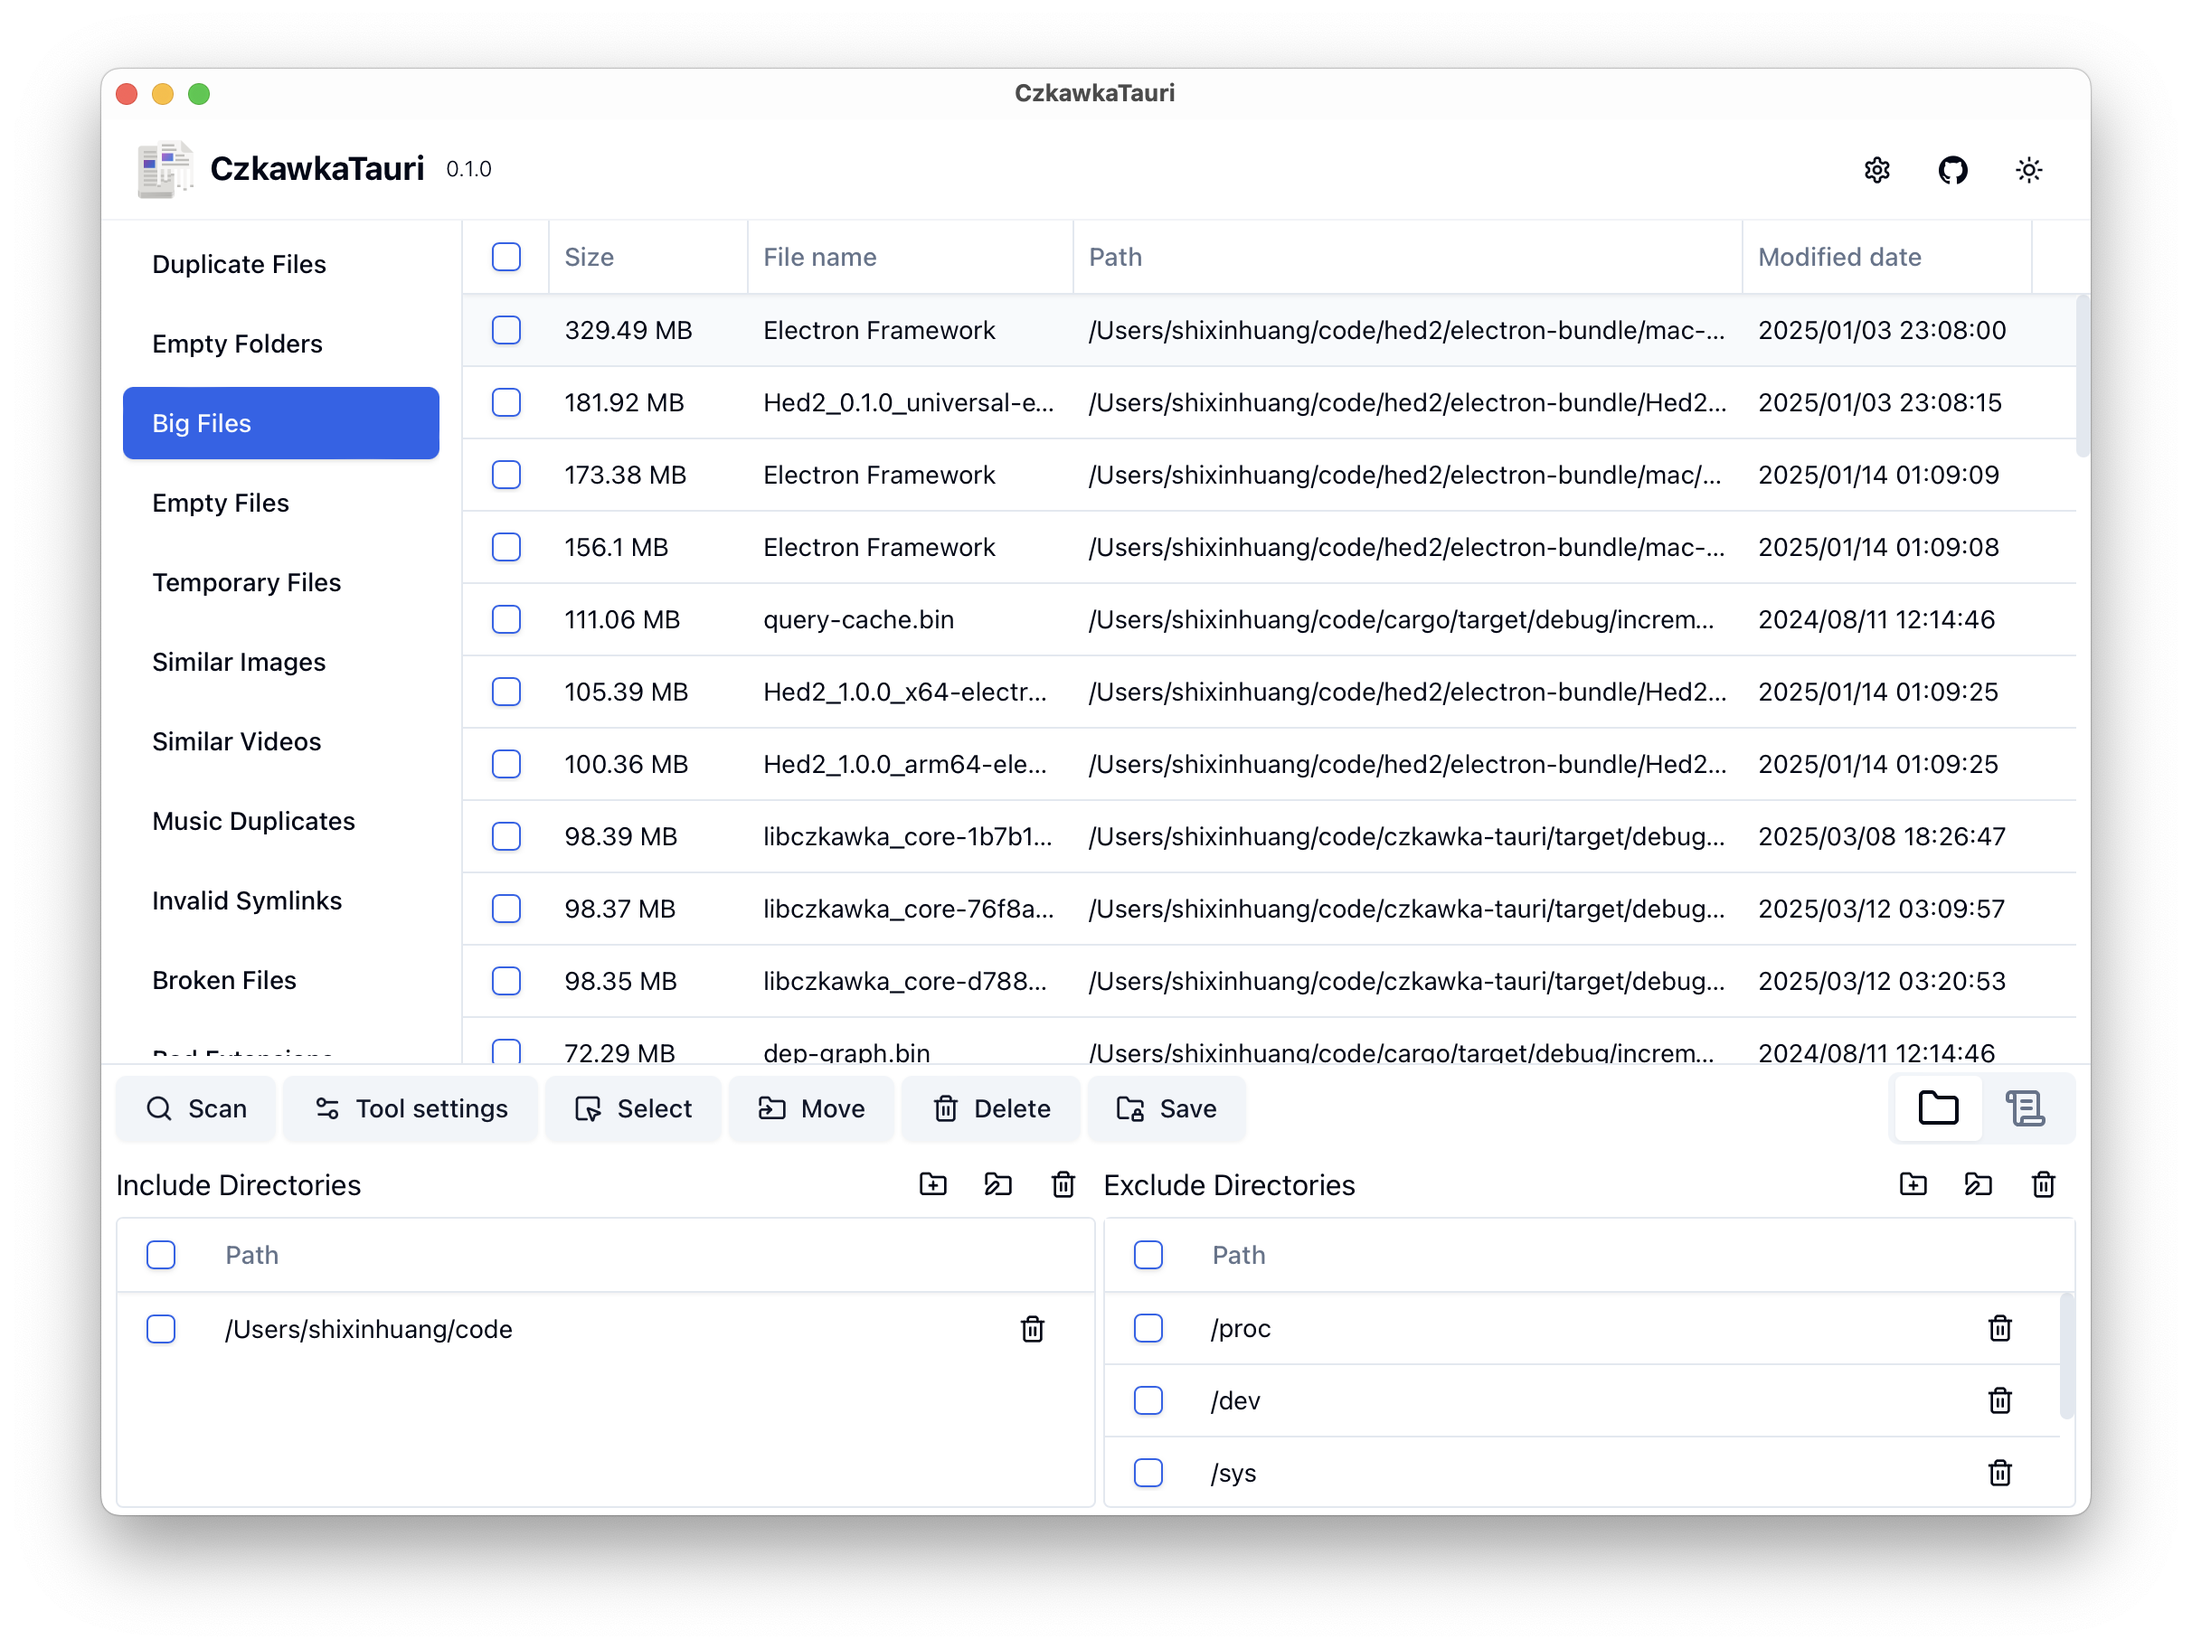
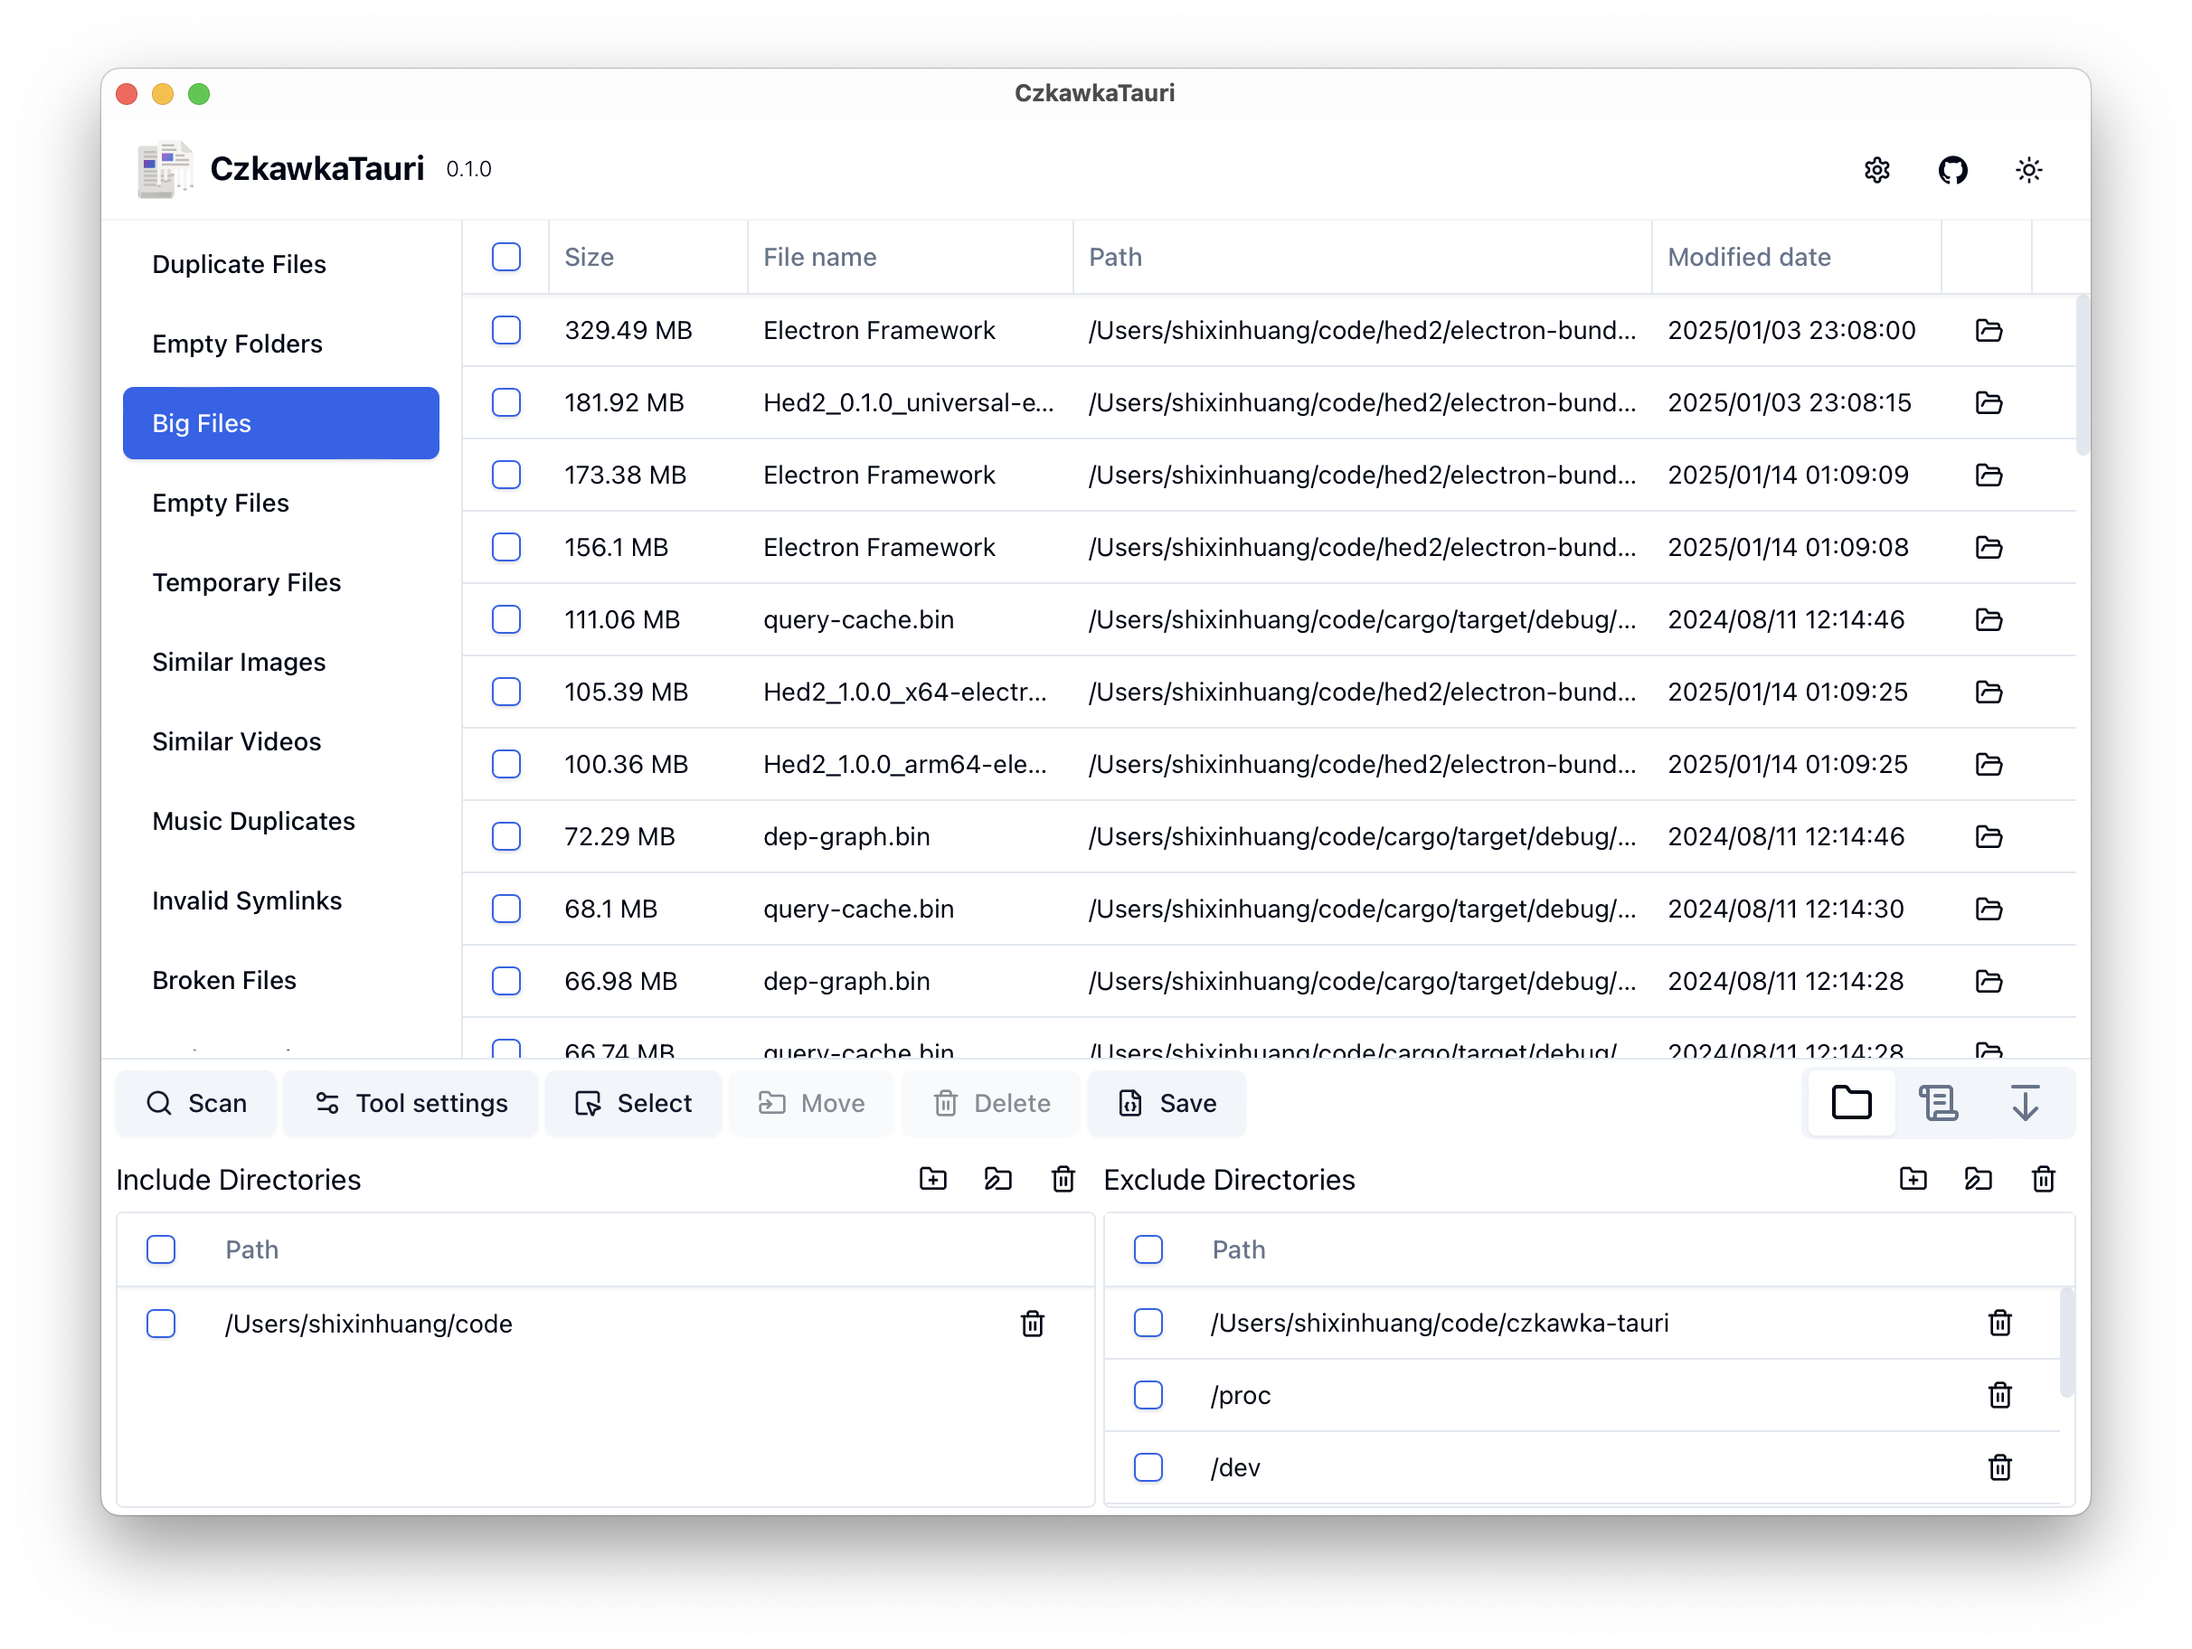
doc and ci

diff --git a/ui/output.css b/ui/output.css
@@ -828,8 +828,8 @@ body {
   height: 1px;
 }
 
-.h-\[250px\] {
-  height: 250px;
+.h-\[200px\] {
+  height: 200px;
 }
 
 .h-\[450px\] {
@@ -854,10 +854,6 @@ body {
 
 .h-screen {
   height: 100vh;
-}
-
-.h-\[200px\] {
-  height: 200px;
 }
 
 .max-h-96 {

diff --git a/README.md b/README.md
@@ -1,9 +1,16 @@
 ## CzkawkaTauri
 
-A Tauri frontend of [Czkawka](https://github.com/qarmin/czkawka) on macOS and Windows
+A Tauri frontend of [Czkawka](https://github.com/qarmin/czkawka) on macOS and Windows.
 
-![screenshot_1](./screenshots/1.png)
+![app light mode](./screenshots/1.png)
 
-A Tauri frontend of Czkawka, based on `czkawka_core`, targeting only macOS and Windows(It hasn't been tested in practice yet) platforms
+![app dark mode](./screenshots/2.png)
 
-I developed it because Czkawka on my computer started crashing upon opening after just a few uses. The UI/UX is actually referenced from Krokiet, and the functionality is also the same as Krokiet
+A Tauri frontend of Czkawka, based on `czkawka_core`, targeting only macOS and Windows(It hasn't been tested in practice yet) platforms.
+
+Since Czkawka on my computer started crashing upon opening after just a few uses. The UI/UX is actually referenced from Krokiet, and the functionality is also the same as Krokiet.
+
+### Differences with Krokiet:
+
+- Use full paths for paths
+- Use decimal for file sizes
